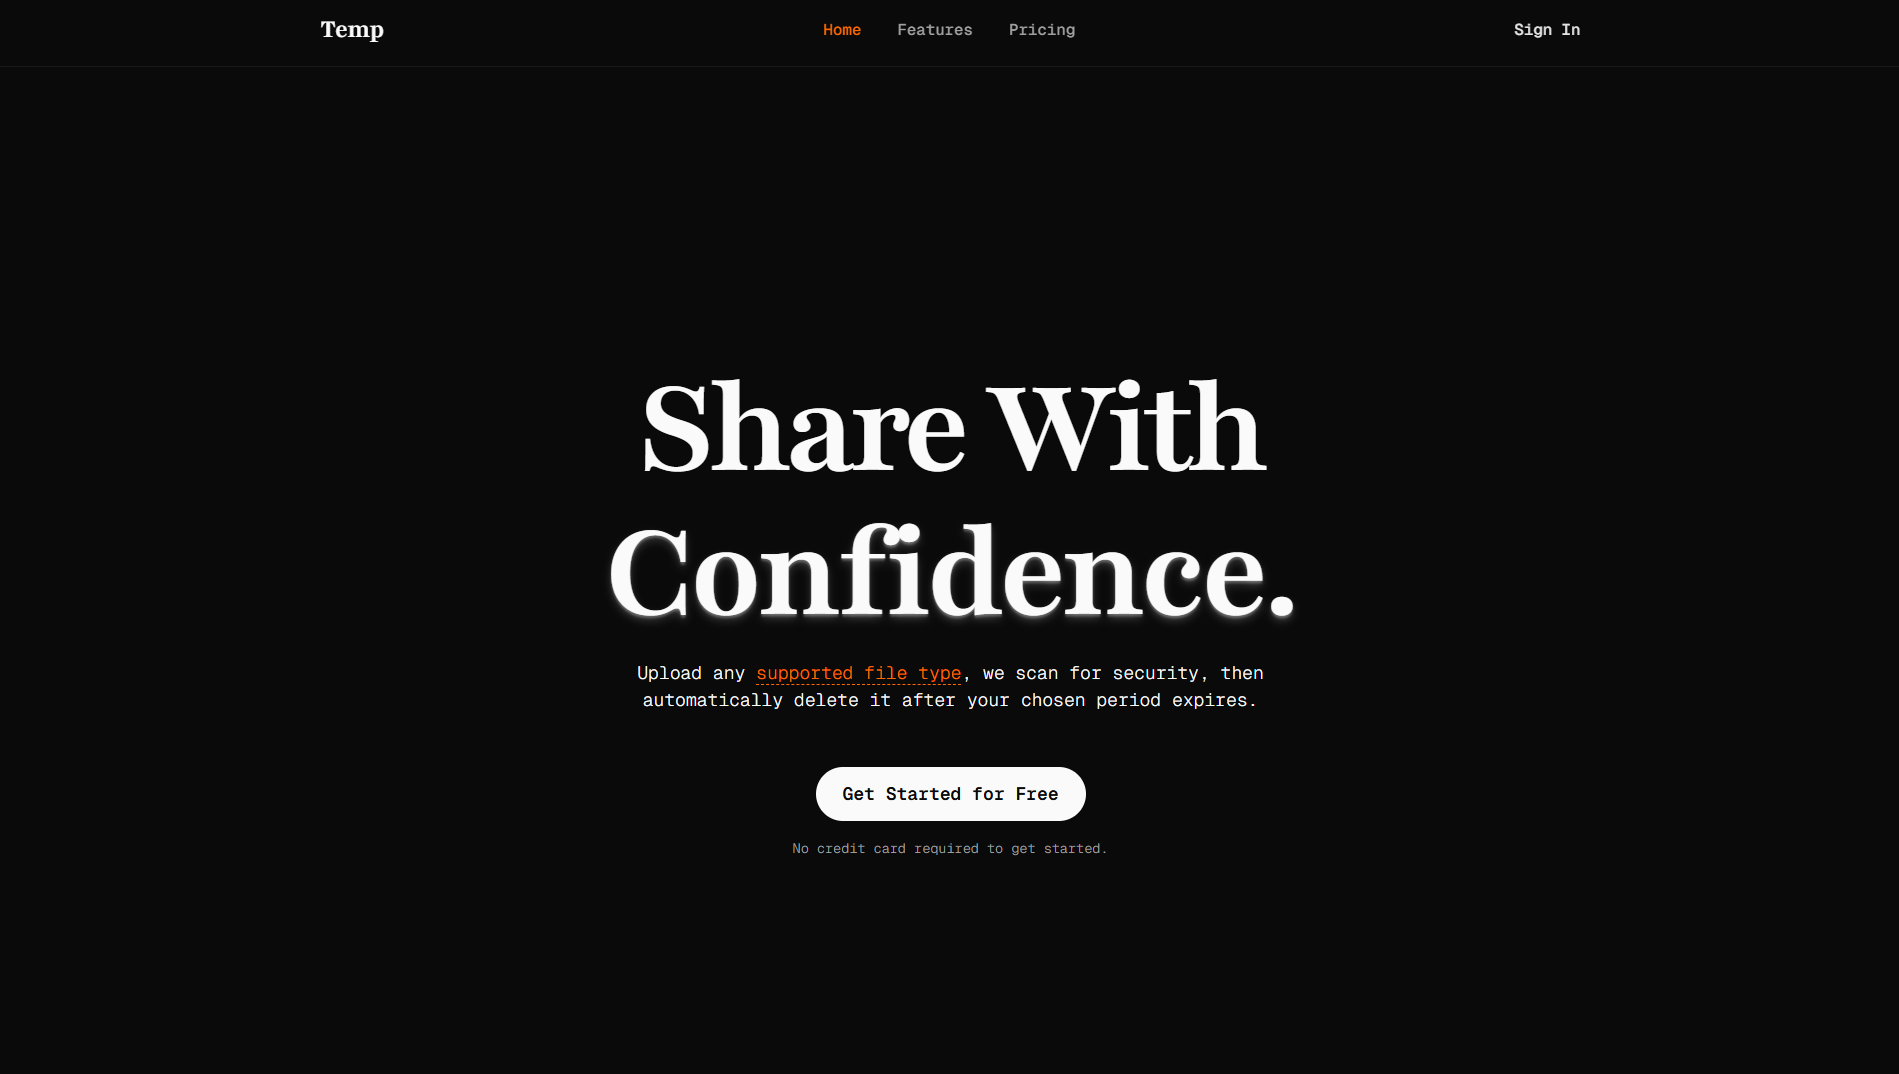
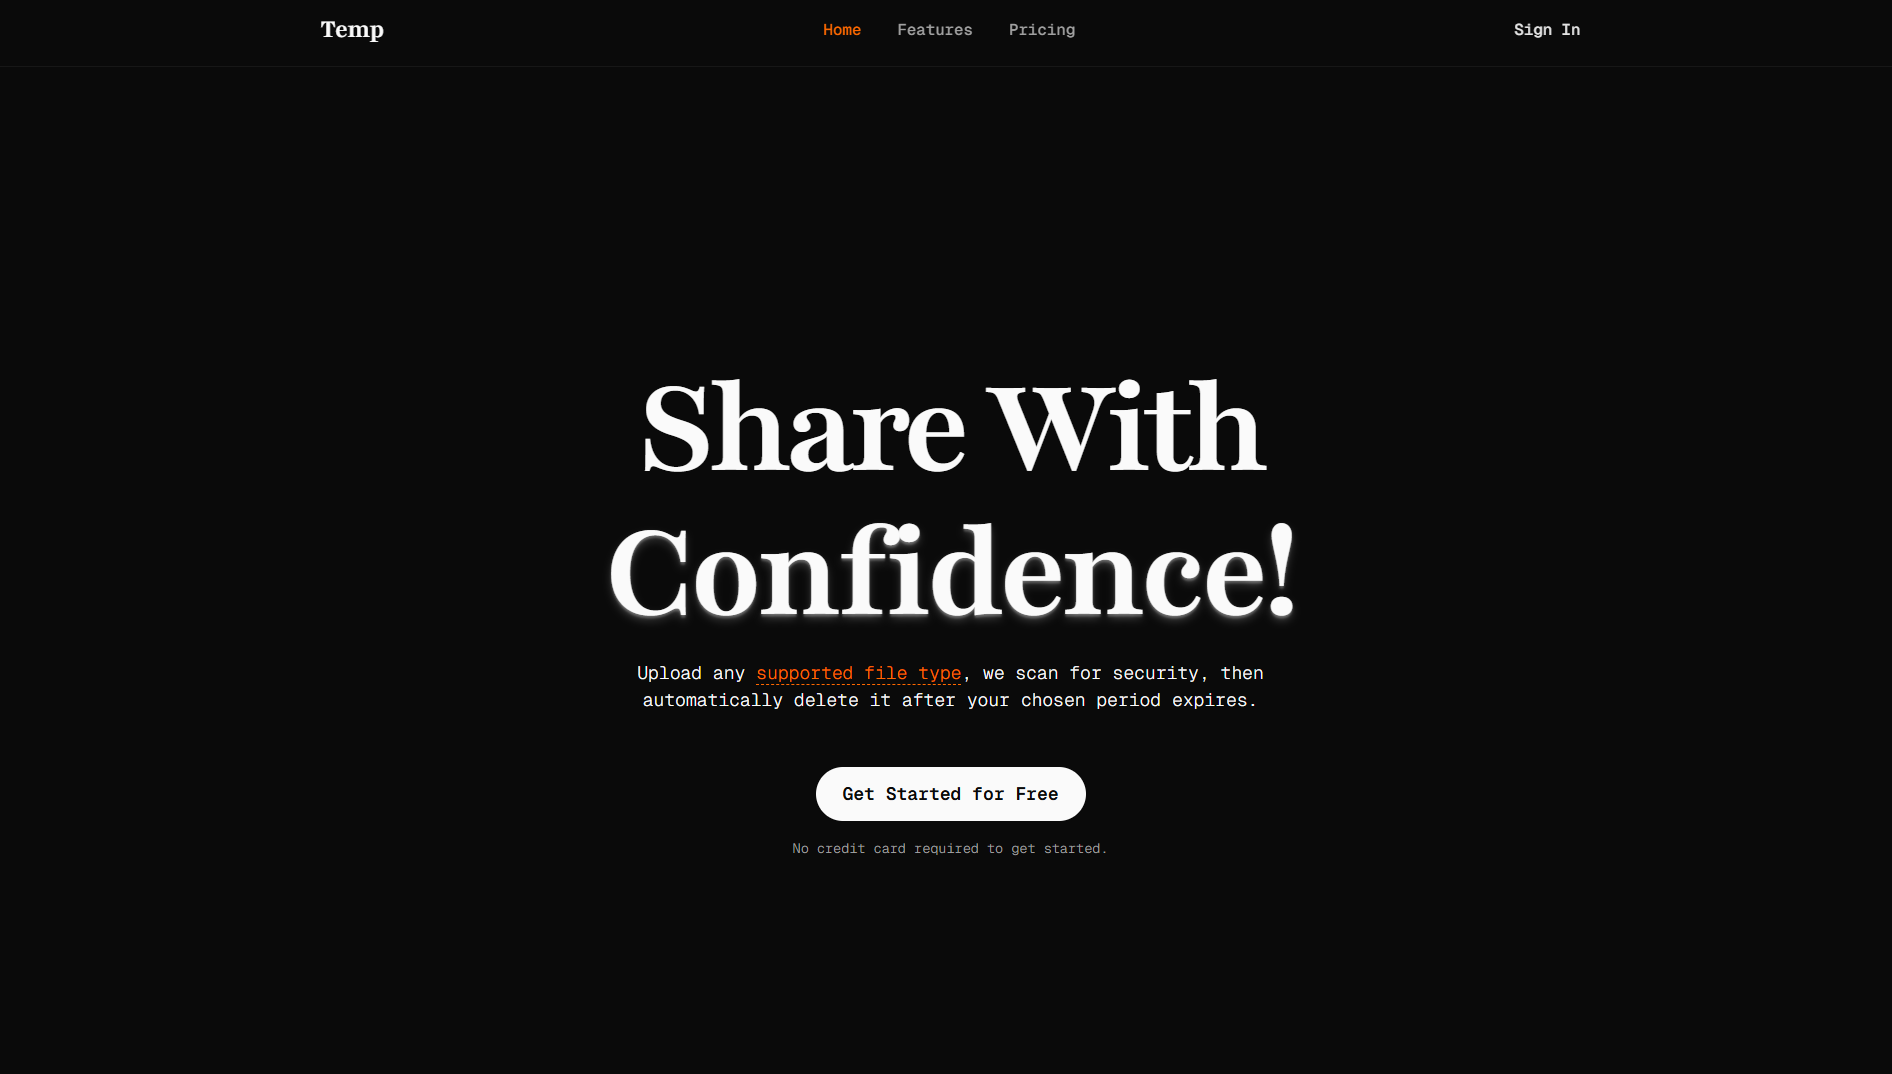
refactor

diff --git a/app/page.tsx b/app/page.tsx
@@ -146,7 +146,7 @@ export default function Home() {
             <h1 className="text-7xl md:text-9xl font-playfair font-bold text-heading text-balance tracking-tighter">
               Share With <br />
               <span className="text-shadow-white/20 text-shadow-lg inline-block tracking-tight text-foreground">
-                Confidence.
+                Confidence!
               </span>
             </h1>
 
@@ -326,7 +326,7 @@ export default function Home() {
         <div className="max-w-2xl mx-auto">
           <h3 className="text-6xl tracking-tighter font-playfair font-bold text-heading mb-4">
             Start Sharing With{" "}
-            <span className="tracking-tight">Confidence</span>!
+            <span className="tracking-tight">Confidence!</span>
           </h3>
 
           <p className="text-sm font-light text-leading mb-8">
